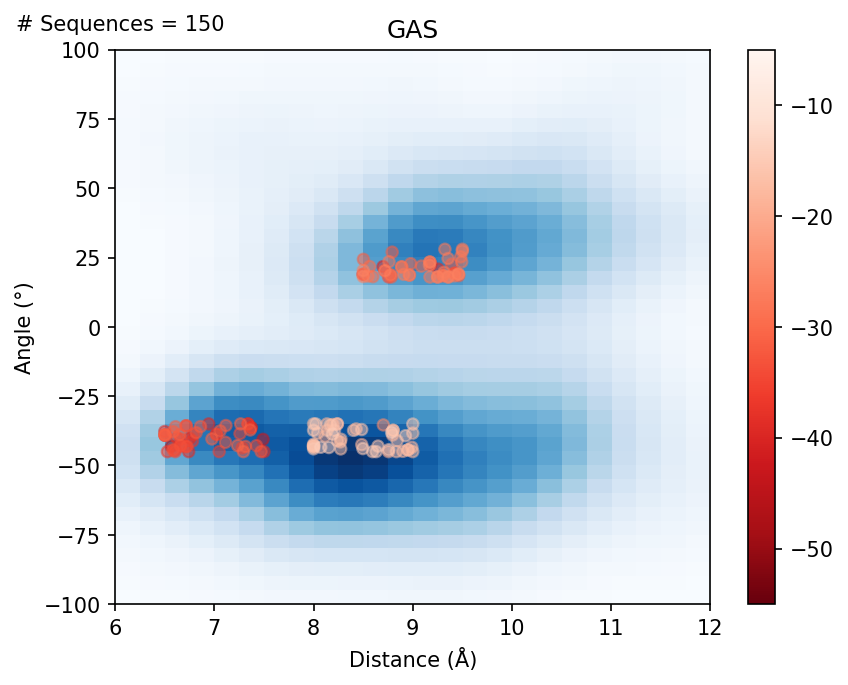
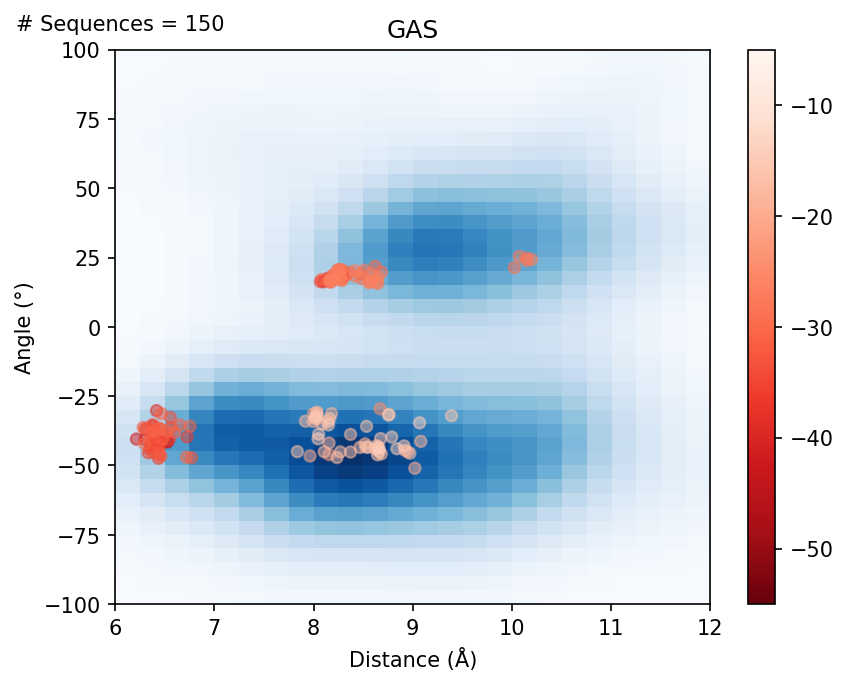
fixed kdes with end geom instead of start

diff --git a/2022_designAnalysisScripts/code/analysisFunctions.py b/2022_designAnalysisScripts/code/analysisFunctions.py
@@ -348,7 +348,7 @@ def makePlotsForDataframe(df, df_kde, currentDir, name):
     plotMeanAndSDBarGraph(df, outputDir, xCol, 'SasaDiff')
     plotScatterMatrix(df, outputDir)
     # set the below up to look at just the regions, not the whole geom
-    plotGeomKde(df_kde, df, 'Total', outputDir, 'startXShift', 'startCrossingAngle')
+    plotGeomKde(df_kde, df, 'Total', outputDir, 'endXShift', 'endCrossingAngle')
     # shift the names of the geometry columns to be the same as the geomList
     x, y, z, c = 'xShift', 'crossingAngle', 'zShift', 'axialRotation'
     tmpDf = df.rename(columns={'endXShift': x, 'endCrossingAngle': y, 'endAxialRotationPrime': c, 'endZShiftPrime': z})

diff --git a/2022_designAnalysisScripts/code/analyzeDesignData.py b/2022_designAnalysisScripts/code/analyzeDesignData.py
@@ -124,7 +124,7 @@ for region in df['Region'].unique():
     tmpDf_neg.to_csv(f'{outputDir}/top_{numSeqs}_{region}_neg.csv', index=False)
     tmpDf_pos.to_csv(f'{outputDir}/top_{numSeqs}_{region}_pos.csv', index=False)
     # add the top sequences to a dataframe using concat
-    topSeqsDf = pd.concat([topSeqsDf, tmpDf_neg.head(50)])
+    topSeqsDf = pd.concat([topSeqsDf, tmpDf.head(50)])
 
 # make plot for the entire dataframe
 makePlotsForDataframe(topSeqsDf, df_kde, outputDir, 'top150')
